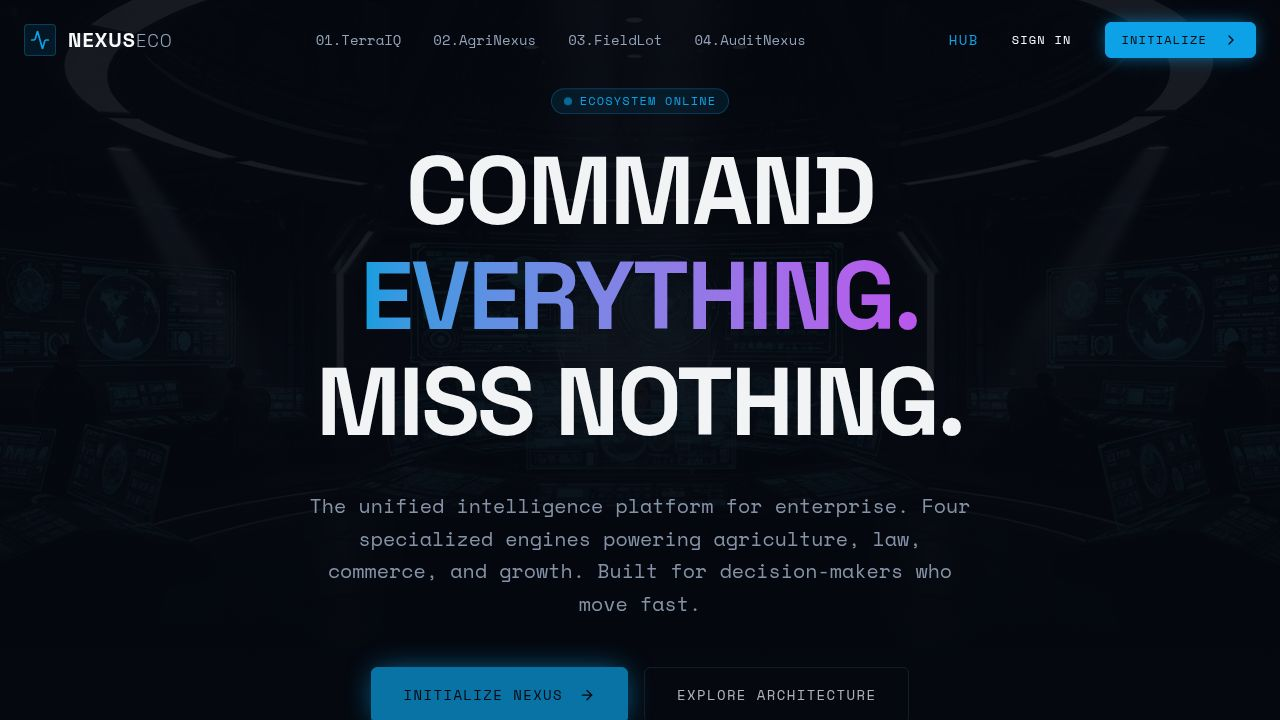
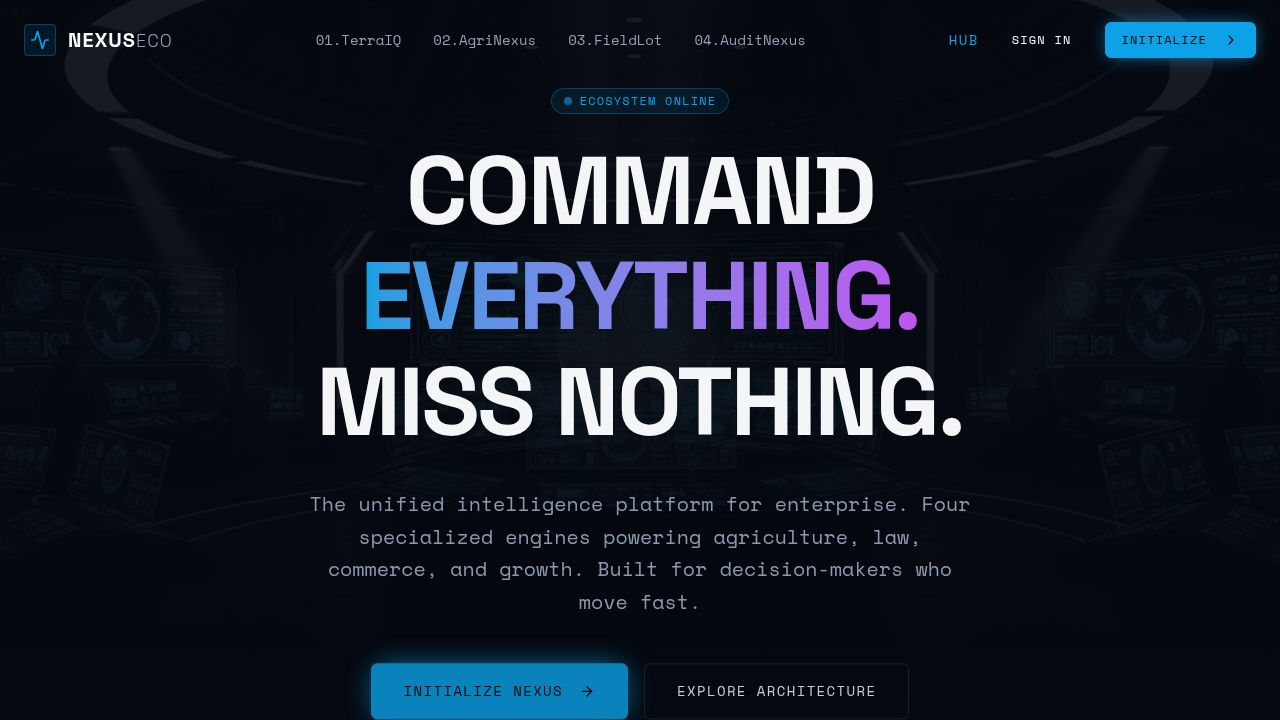
Update: sync latest changes

diff --git a/artifacts/nexus/src/pages/Home.tsx b/artifacts/nexus/src/pages/Home.tsx
@@ -2,7 +2,7 @@ import { Navbar } from "@/components/Navbar";
 import { Footer } from "@/components/Footer";
 import { motion, useScroll, useTransform } from "framer-motion";
 import { useRef } from "react";
-import { ArrowRight, Box, BarChart2, Scale, Truck, Activity, Cpu, Network, Zap, Target } from "lucide-react";
+import { ArrowRight, ArrowUpRight, Box, BarChart2, Scale, Truck, Activity, Cpu, Network, Zap, Target } from "lucide-react";
 import { Button } from "@/components/ui/button";
 import heroImg from "@/assets/images/hero.png";
 import terraIqImg from "@/assets/images/terraiq.png";
@@ -84,10 +84,10 @@ export default function Home() {
             </motion.p>
             
             <motion.div variants={fadeUp} className="flex flex-col sm:flex-row items-center gap-4">
-              <Button size="lg" className="h-14 px-8 font-mono text-sm tracking-widest uppercase bg-primary text-primary-foreground hover:bg-primary/90 shadow-[0_0_30px_-5px_hsl(var(--primary))] w-full sm:w-auto">
+              <Button size="lg" onClick={() => document.getElementById('terraiq')?.scrollIntoView({ behavior: 'smooth' })} className="h-14 px-8 font-mono text-sm tracking-widest uppercase bg-primary text-primary-foreground hover:bg-primary/90 shadow-[0_0_30px_-5px_hsl(var(--primary))] w-full sm:w-auto">
                 Initialize Nexus <ArrowRight className="w-4 h-4 ml-2" />
               </Button>
-              <Button size="lg" variant="outline" className="h-14 px-8 font-mono text-sm tracking-widest uppercase border-border hover:bg-card w-full sm:w-auto">
+              <Button size="lg" variant="outline" onClick={() => document.getElementById('auditnexus')?.scrollIntoView({ behavior: 'smooth' })} className="h-14 px-8 font-mono text-sm tracking-widest uppercase border-border hover:bg-card w-full sm:w-auto">
                 Explore Architecture
               </Button>
             </motion.div>
@@ -174,8 +174,8 @@ export default function Home() {
                   <span className="text-muted-foreground">Predictive modeling for market movements</span>
                 </li>
               </ul>
-              <Button variant="outline" className="font-mono text-xs uppercase tracking-widest border-[hsl(var(--chart-1))]/50 text-[hsl(var(--chart-1))] hover:bg-[hsl(var(--chart-1))]/10">
-                Access TerraIQ
+              <Button variant="outline" onClick={() => window.open('https://terraiq.me', '_blank')} className="font-mono text-xs uppercase tracking-widest border-[hsl(var(--chart-1))]/50 text-[hsl(var(--chart-1))] hover:bg-[hsl(var(--chart-1))]/10">
+                Access TerraIQ <ArrowUpRight className="w-3 h-3 ml-2" />
               </Button>
             </motion.div>
             
@@ -245,8 +245,8 @@ export default function Home() {
                   <span className="text-muted-foreground">AI-assisted legal precedent analysis</span>
                 </li>
               </ul>
-              <Button variant="outline" className="font-mono text-xs uppercase tracking-widest border-[hsl(var(--chart-2))]/50 text-[hsl(var(--chart-2))] hover:bg-[hsl(var(--chart-2))]/10">
-                Access AgriNexus
+              <Button variant="outline" onClick={() => window.open('https://agrinexuslaw.com', '_blank')} className="font-mono text-xs uppercase tracking-widest border-[hsl(var(--chart-2))]/50 text-[hsl(var(--chart-2))] hover:bg-[hsl(var(--chart-2))]/10">
+                Access AgriNexus <ArrowUpRight className="w-3 h-3 ml-2" />
               </Button>
             </motion.div>
           </div>
@@ -285,8 +285,8 @@ export default function Home() {
                   <span className="text-muted-foreground">Integrated secure payment & escrow</span>
                 </li>
               </ul>
-              <Button variant="outline" className="font-mono text-xs uppercase tracking-widest border-[hsl(var(--chart-3))]/50 text-[hsl(var(--chart-3))] hover:bg-[hsl(var(--chart-3))]/10">
-                Access FieldLot
+              <Button variant="outline" onClick={() => window.open('https://fieldlot.io', '_blank')} className="font-mono text-xs uppercase tracking-widest border-[hsl(var(--chart-3))]/50 text-[hsl(var(--chart-3))] hover:bg-[hsl(var(--chart-3))]/10">
+                Access FieldLot <ArrowUpRight className="w-3 h-3 ml-2" />
               </Button>
             </motion.div>
             
@@ -365,8 +365,8 @@ export default function Home() {
                   <span className="text-muted-foreground">Predictive lead scoring</span>
                 </li>
               </ul>
-              <Button variant="outline" className="font-mono text-xs uppercase tracking-widest border-[hsl(var(--chart-4))]/50 text-[hsl(var(--chart-4))] hover:bg-[hsl(var(--chart-4))]/10">
-                Access AuditNexus
+              <Button variant="outline" onClick={() => window.location.href = '/audit-nexus/'} className="font-mono text-xs uppercase tracking-widest border-[hsl(var(--chart-4))]/50 text-[hsl(var(--chart-4))] hover:bg-[hsl(var(--chart-4))]/10">
+                Access AuditNexus <ArrowUpRight className="w-3 h-3 ml-2" />
               </Button>
             </motion.div>
           </div>
@@ -484,11 +484,11 @@ export default function Home() {
             </p>
             
             <div className="flex flex-col sm:flex-row items-center justify-center gap-4">
-              <Button size="lg" className="h-14 px-8 font-mono text-sm tracking-widest uppercase bg-primary text-primary-foreground hover:bg-primary/90 w-full sm:w-auto shadow-[0_0_20px_-5px_hsl(var(--primary))]">
-                Request Clearance
+              <Button size="lg" onClick={() => window.location.href = '/audit-nexus/'} className="h-14 px-8 font-mono text-sm tracking-widest uppercase bg-primary text-primary-foreground hover:bg-primary/90 w-full sm:w-auto shadow-[0_0_20px_-5px_hsl(var(--primary))]">
+                Request Clearance <ArrowUpRight className="w-4 h-4 ml-2" />
               </Button>
-              <Button size="lg" variant="outline" className="h-14 px-8 font-mono text-sm tracking-widest uppercase border-border hover:bg-background w-full sm:w-auto">
-                View Documentation
+              <Button size="lg" variant="outline" onClick={() => document.getElementById('terraiq')?.scrollIntoView({ behavior: 'smooth' })} className="h-14 px-8 font-mono text-sm tracking-widest uppercase border-border hover:bg-background w-full sm:w-auto">
+                View Products
               </Button>
             </div>
             